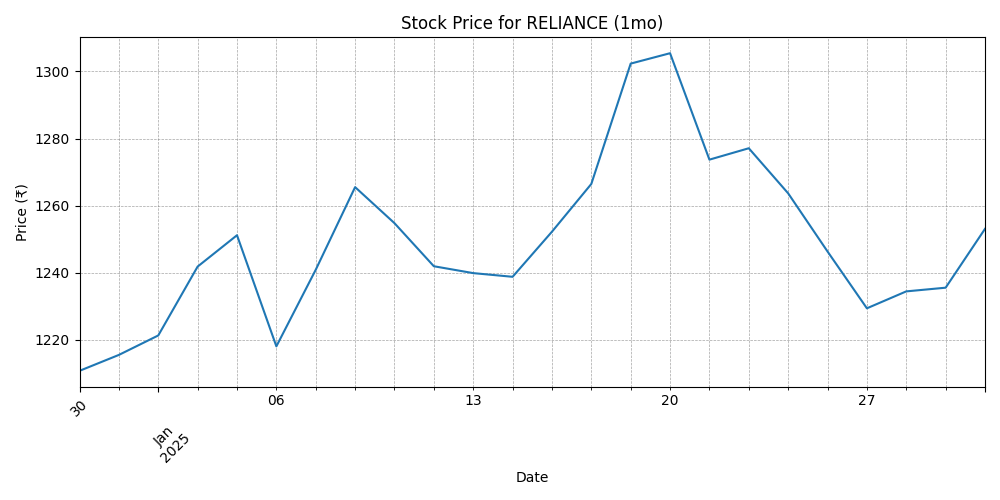
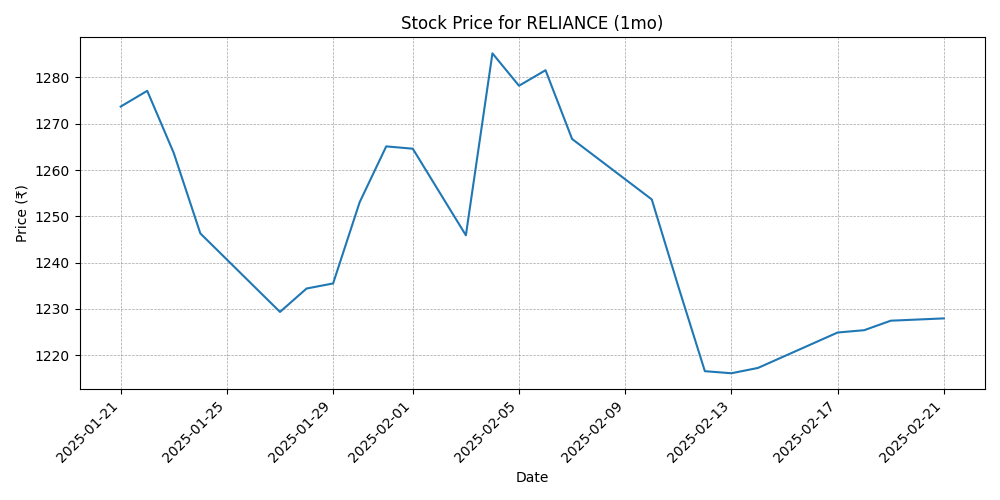
Updated NSE-stock-price-tracker

diff --git a/README.md b/README.md
@@ -1,10 +1,65 @@
-# NSE Stock Price Tracker
+📌 NSE Stock Price Tracker
 
-This application is a graphical user interface (GUI) built using Python tkinter library to track and display stock prices from the NSE (National Stock Exchange). It fetches historical stock data, displays key metrics, and plots a stock price chart for a specified period.
+🚀 Overview
+The NSE Stock Price Tracker is a Flask-based web application that allows users to fetch and visualize real-time stock data from the National Stock Exchange (NSE). It provides insights such as closing price, day high & low, opening price, P/E ratio, and also generates stock price trend charts. The data is stored in MySQL and exported to Excel for further analysis.
 
-# Features
+🔧 Tech Stack
+Backend: Python (Flask)
+Data Handling: Pandas, Yahoo Finance API (yfinance)
+Database: MySQL
+Visualization: Matplotlib
+Frontend: HTML, CSS
+Storage: Excel file
 
-- **Real-Time Stock Data**: Fetch the latest stock prices, day high, day low, and opening prices.
-- **Stock Trends**: View a graphical chart of stock prices over different periods (1 day, 5 days, 1 month, etc.).
-- **P/E Ratio Display**: Shows the Price-to-Earnings (P/E) ratio if available.
-- **User-Friendly Interface**: Simple and intuitive GUI using Tkinter.
+🎯 Features
+✅ Fetch real-time stock prices from NSE
+✅ Displays closing price, opening price, P/E ratio, day high & low
+✅ Saves stock data to MySQL for historical records
+✅ Exports stock data to Excel
+✅ Generates dynamic stock charts for price trends
+✅ User-friendly Flask web interface
+
+📥 Installation & Setup
+1⃣ Clone the repository
+git clone https://github.com/your-username/NSE-Stock-Price-Tracker.git
+
+2⃣ Install dependencies
+pip install -r requirements.txt
+
+4⃣ Setup MySQL Database
+Ensure MySQL is installed and running.
+Create a database called stock_data_db.
+Update the MySQL credentials in app.py.
+
+🚀 Running the Application
+python app.py
+The app will be live at http://127.0.0.1:5000/
+
+🖼 Screenshots
+💡 (Include some screenshots of your web app interface and stock charts here!)
+
+🛠 Troubleshooting & Common Issues
+❌ Stock Data Not Fetching?
+Ensure Yahoo Finance API is working:
+👉 Open Yahoo Finance in a browser.
+Try upgrading yfinance:
+bash
+Copy
+Edit
+pip install --upgrade yfinance
+
+❌ MySQL Connection Issue?
+Ensure MySQL service is running
+Double-check username, password, and database name in app.py
+
+🎯 Future Enhancements
+🔹 Add historical stock data analysis 📊
+🔹 Implement AI-based stock predictions 🤖
+🔹 Add technical indicators (RSI, Moving Averages, etc.)
+
+🤝 Contributing
+Contributions are welcome! Feel free to fork this repo, create a feature branch, and submit a PR.
+
+🚀 Let's Connect!
+💡 If you like this project, give it a ⭐ on GitHub!
+📩 Feel free to reach out for collaboration opportunities.
